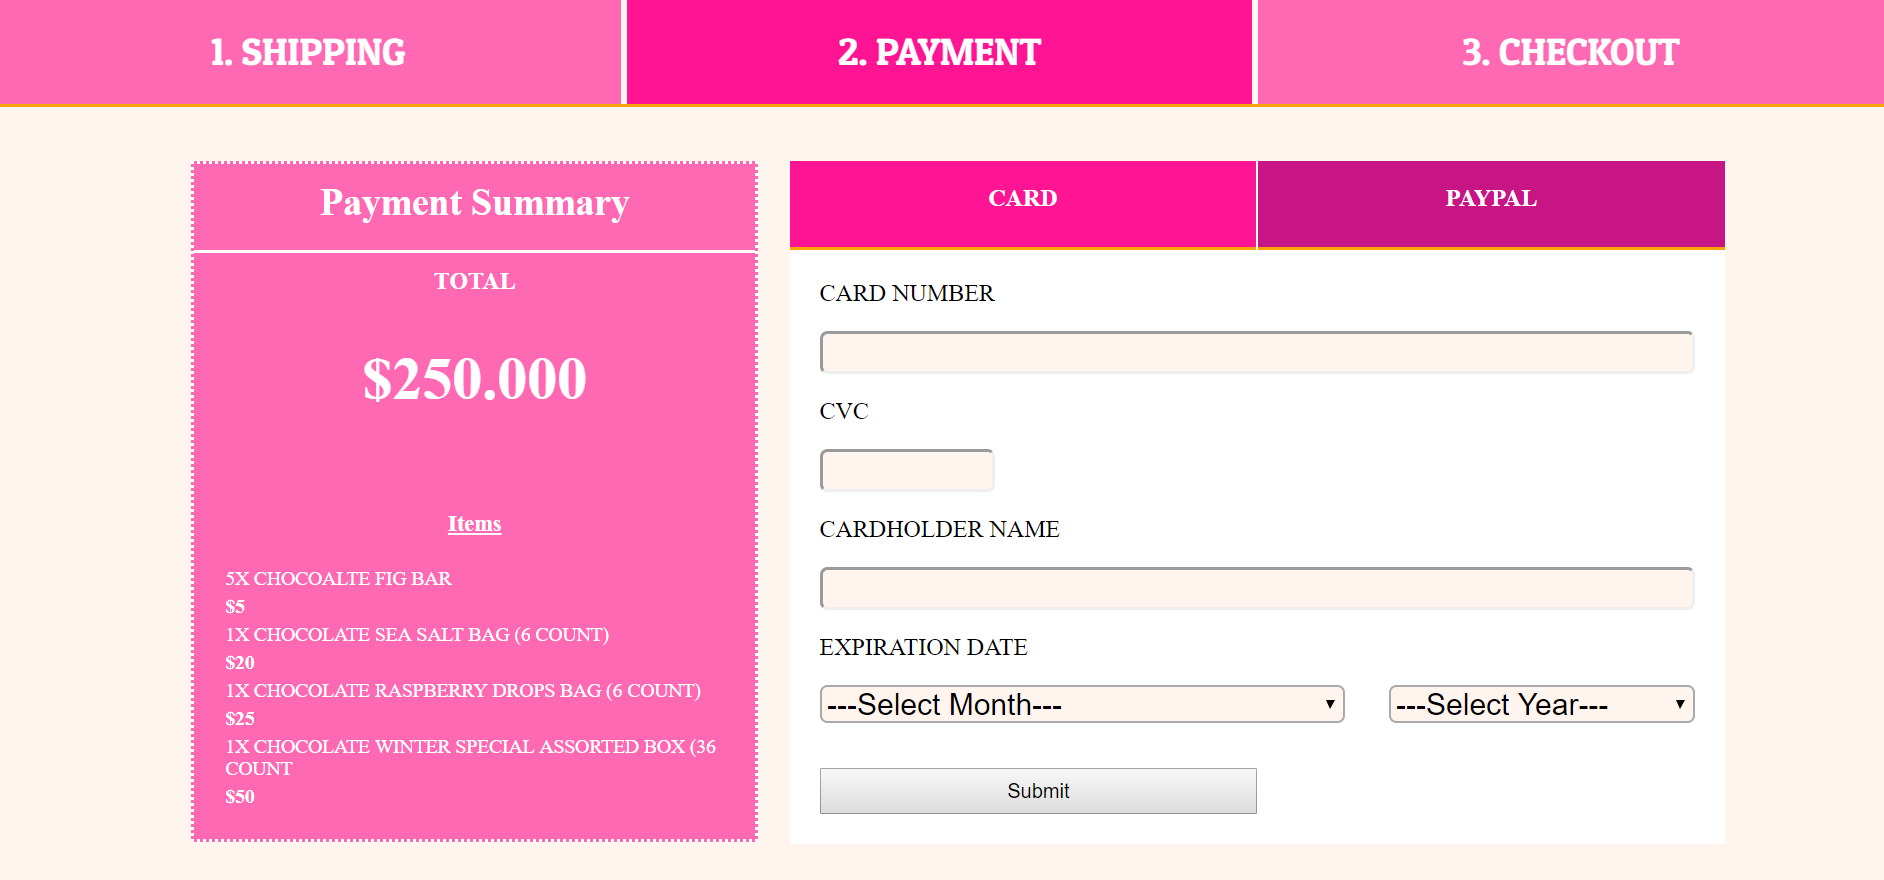
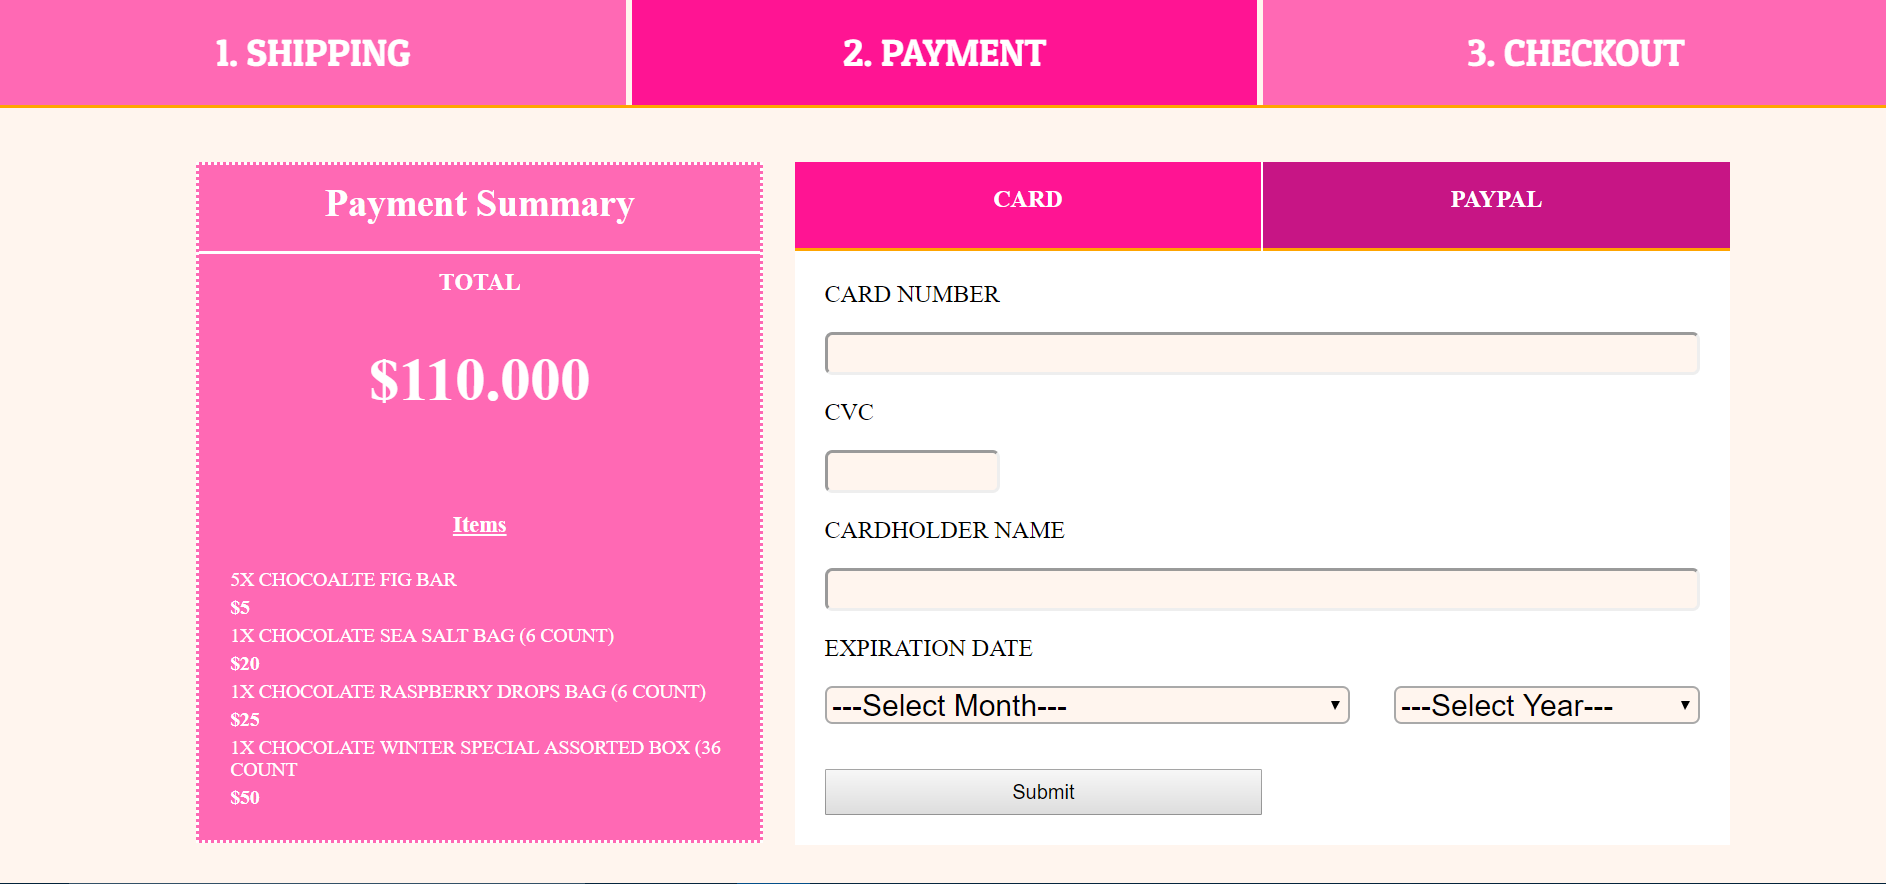
Fixed Total Number

diff --git a/Credit_Checkout/Credit_Checkout.html b/Credit_Checkout/Credit_Checkout.html
@@ -78,7 +78,7 @@
 
 		<div class="money">
 			<p><strong>Total</strong></p>
-			<h2>$250.000</h2>
+			<h2>$110.000</h2>
 		</div>
 
 		<h3>Items</h3>
